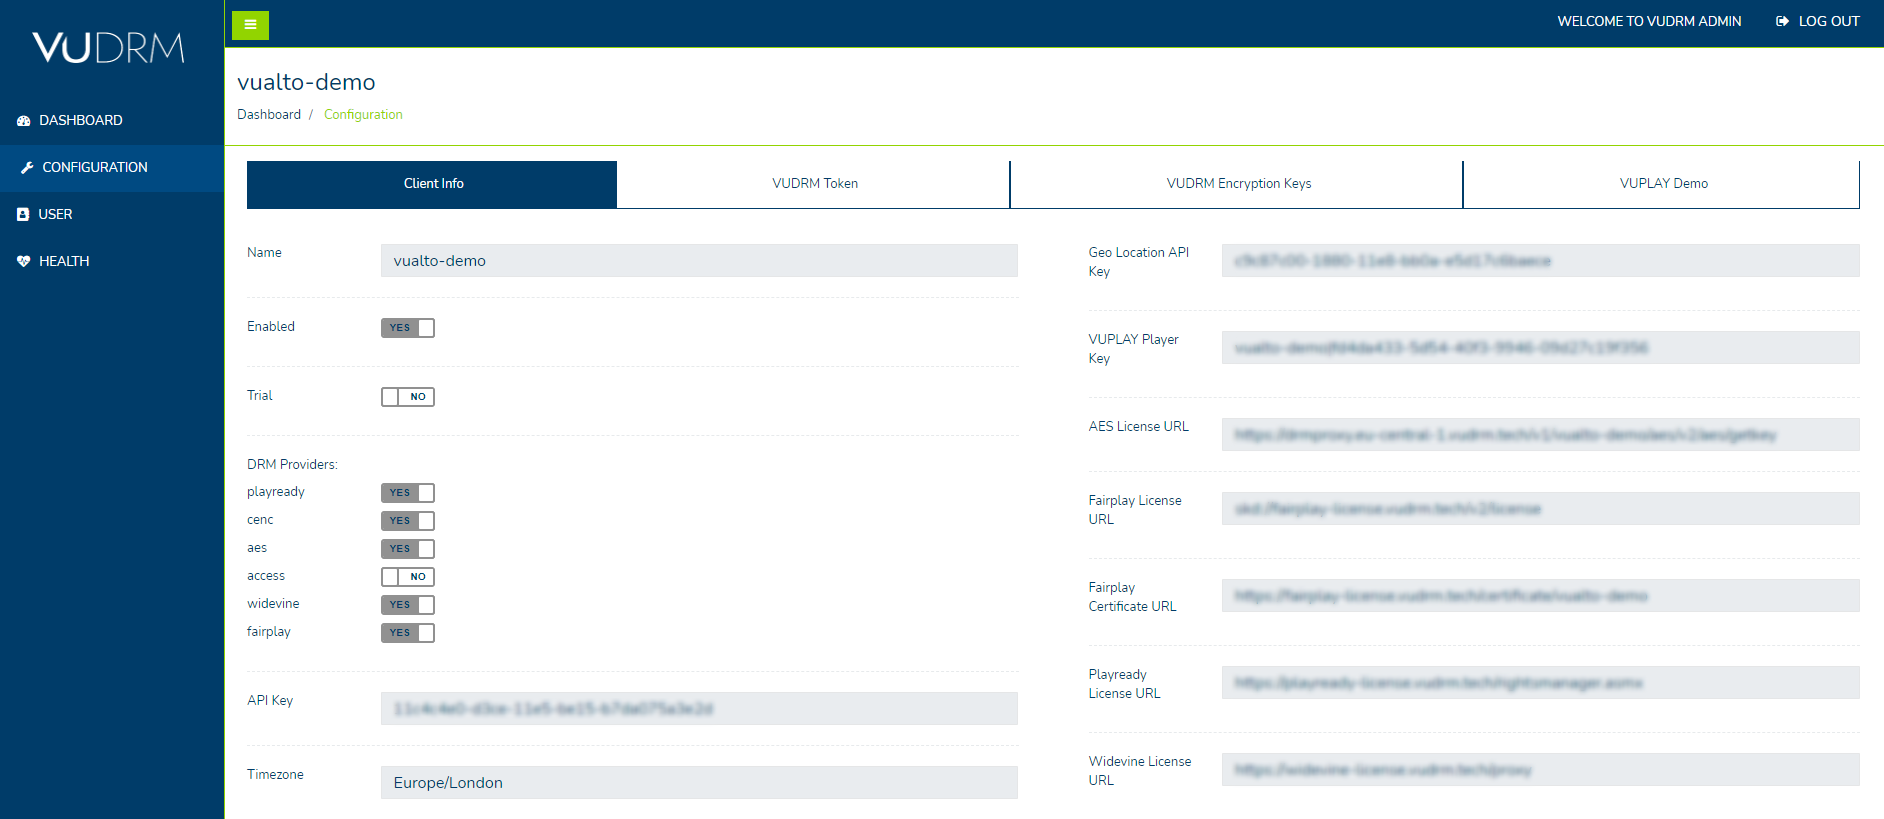
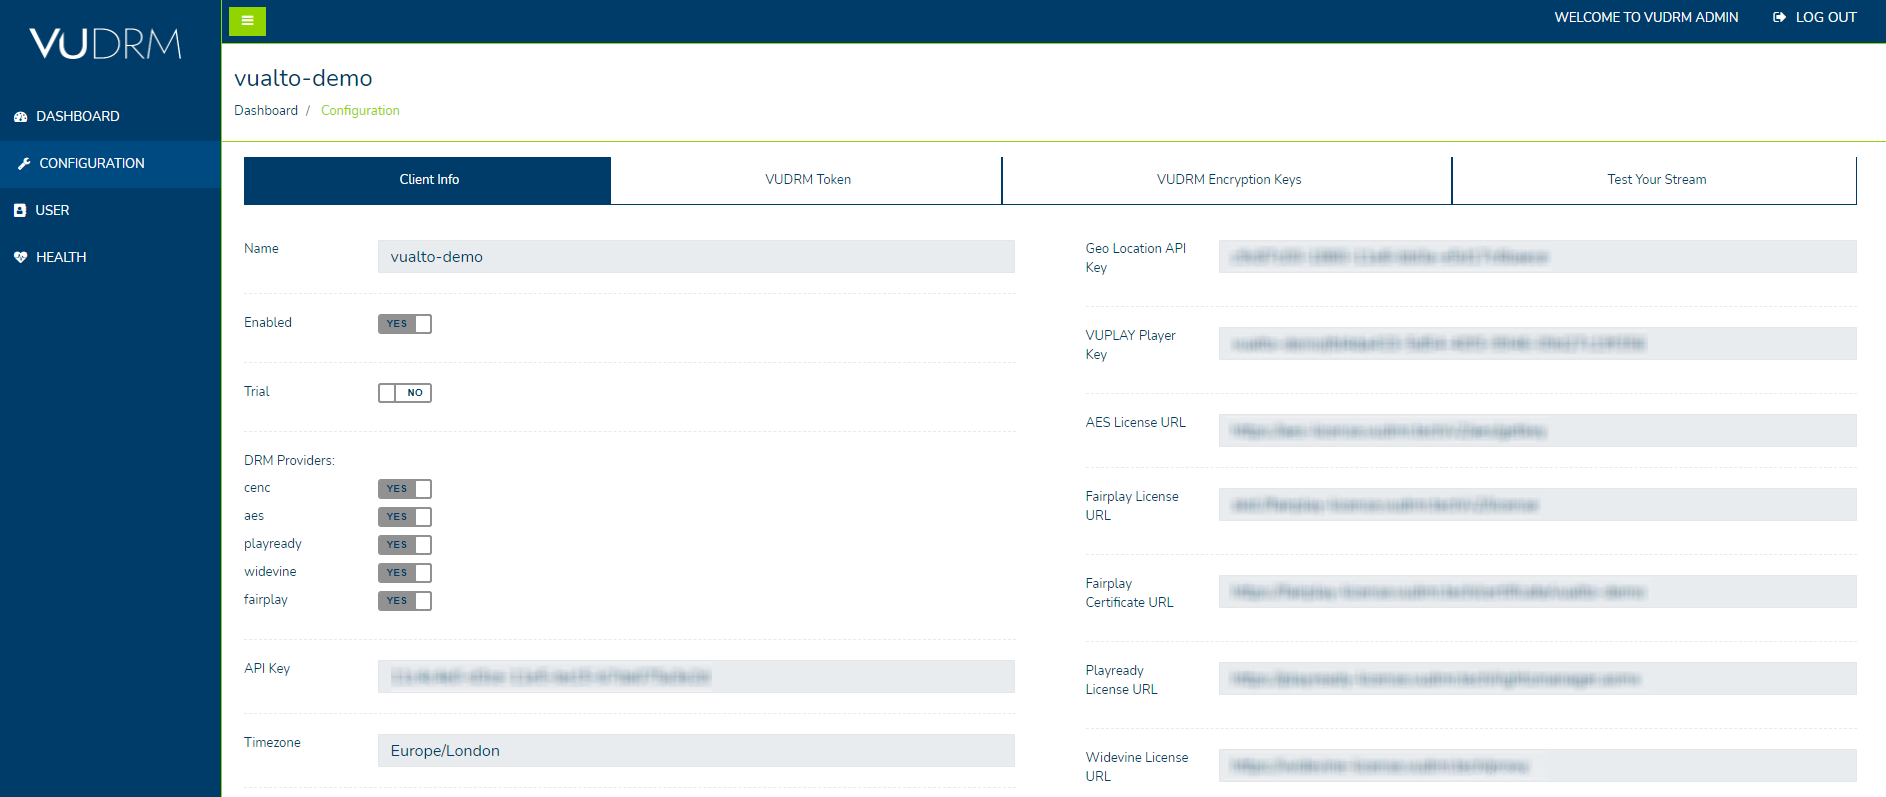
Text amends + updates for the new JW player integration for the Admin site.

diff --git a/docs/source/UserGuide/VUDRM-Admin.md b/docs/source/UserGuide/VUDRM-Admin.md
@@ -68,11 +68,11 @@ The buttons on the page do the following:
 * `Encode Token`    - URL Encodes the token
 * `Decode Token`    - URL Decodes the token
 
-Once a token has been generated, a new button will appear - `Use Token in Demo`. 
+Once a token has been generated, a new button will appear - `Use Token To Test Your Stream`. 
 
 <img src="../_static/user-guide-images/6-1vudrmtoken.png" class="image" width="1000" alt="VUALTO Admin - VUDRM Token Page - Use Token in Demo"/>
 
-Clicking `Use Token in Demo` will load the `VUPLAY Demo` player with the generated token in the `Custom VUDRM Token` text box.
+Clicking `Use Token To Test Your Stream` will load the `Test Your Stream` player with the generated token in the `VUDRM Token` text box.
 
 For an in depth guide of how our tokens work - please refer to the [VUDRM Token documentation](../DeveloperDocumentation/VUDRM-token.html#). 
 
@@ -94,26 +94,33 @@ We also have our `Legacy JSON Key provider` (available on the `Key Provider API`
 
 For more information - please refer to our [Encryption Key Provision documentation](../DeveloperDocumentation/VUDRM-key-provision.html#).
 
-### VUPLAY Demo
+### Test Your Stream
 
-VUPLAY is our internal demo player. If you access this page by clicking the tab on the admin site, a token with an open policy is loaded into the player. If you access the player directly, the `Custom VUDRM Token` text box will be blank.
+Integrated into the VUDRM Admin site is our internal demo player which can be used for testing your streams. 
 
-You can copy and paste a token you created in the `VUDRM Token` section of the `Info` page. This can be used to test content with your variation of the token. 
+<img src="../_static/user-guide-images/8jwplayer.png" class="image" width="1000" alt="VUALTO Admin - JW Player Integration"/>
 
-<img src="../_static/user-guide-images/8vuplay.png" class="image" width="1000" alt="VUALTO Admin - VUPLAY Page"/>
+A token with an open policy is loaded into the Token field used by the player. You can copy and paste a token you created in the `VUDRM Token` section of the `Info` page. This can be used to test content with your variation of the token. Alternatively, clicking the `Use Token To Test Your Stream` within the `VUDRM Token` page will automatically enter that token into the Token field used by the player.
 
-The different options are as follows: 
+The fields are as follows: 
 
-* `Default no DRM`  - this will play our demo content with no DRM
-* `Default DRM`     - this will play our demo content with DRM. A `VUDRM Token` is required to view it
-* `Custom Stream`   - this can be used to test custom content with a `VUDRM Token`
+* `VUDRM Token`     - Token used by the player for the stream
+* `DASH Stream URL` - DASH stream to test
+* `HLS Stream URL`  - HLS stream to test
 
-If you select `Custom Stream`, you will be presented with two text boxes to edit:
+<img src="../_static/user-guide-images/8-1jwplayer-customurl.png" class="image" width="1000" alt="VUALTO Admin - JW Player Integration"/>
 
-* `Custom stream url` - your onboarding document contains a link to an encrypted video for you to use with the player, copy and paste that link into the text box. The player will automatically transform this URL to HLS (`.m3u8`) when Fairplay is required
-* `Custom VUDRM Token` - as mentioned above, this may be blank or contain a token depending on how the player was accessed. Please ensure the text box contains a valid token
+If you select the `Use Custom License Server URLs?` button, you will be presented with three fields available to edit:
 
-Clicking `Load Player` will then load the content with the conditions of the token.
+* `Widevine License Server URL`
+* `Playready License Server URL`
+* `Fairplay License Server URL`
+
+If these custom fields have values, they will override the default License Server URLs set within the client configuration.
+
+Clicking `Load Player` will then load the content with the conditions of the filled in fields.
+
+<img src="../_static/user-guide-images/8-2jwplayer-loaded.png" class="image" width="1000" alt="VUALTO Admin - JW Player Integration"/>
 
 ## User
 
